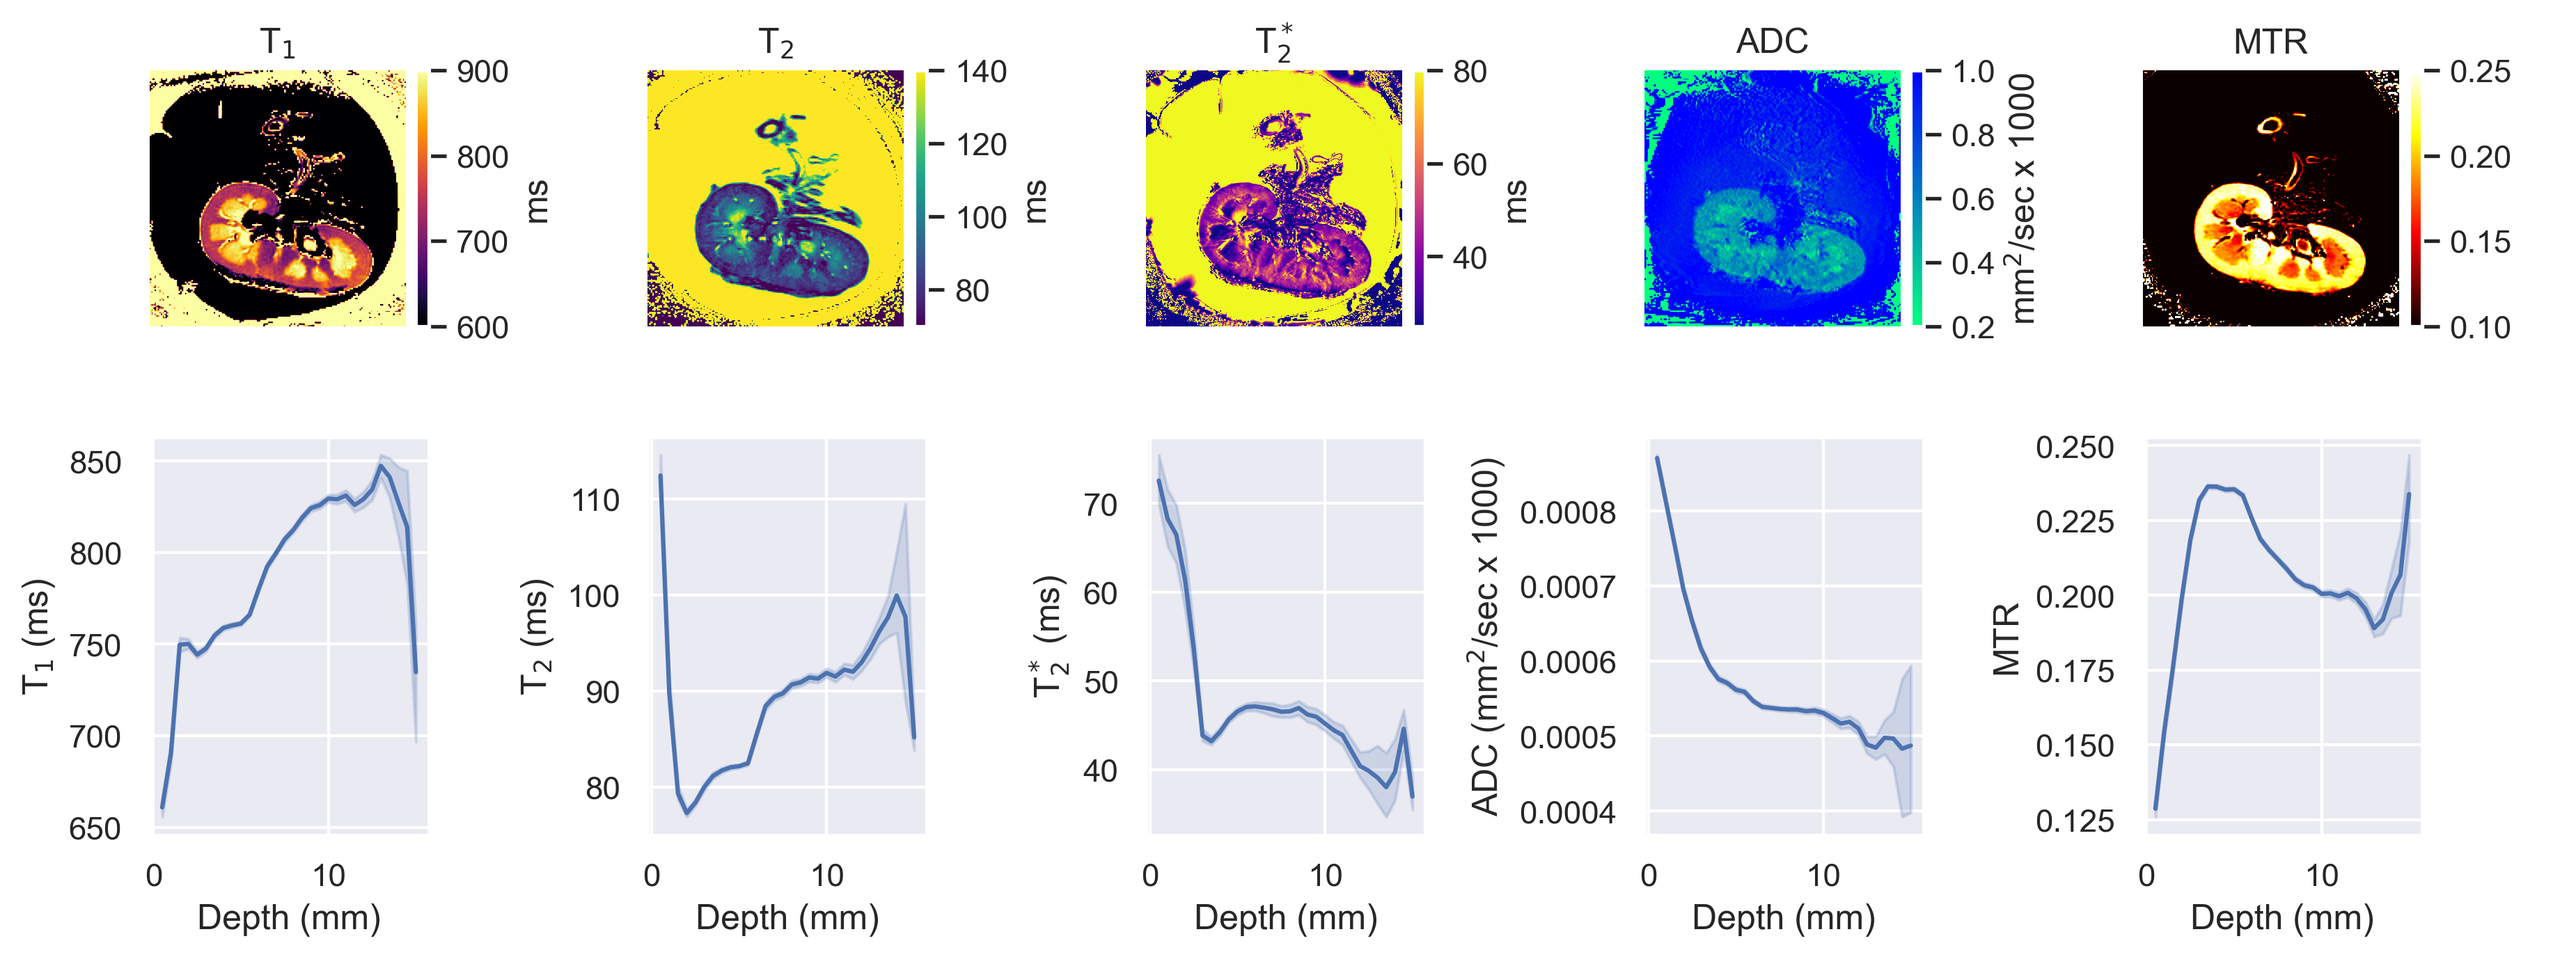
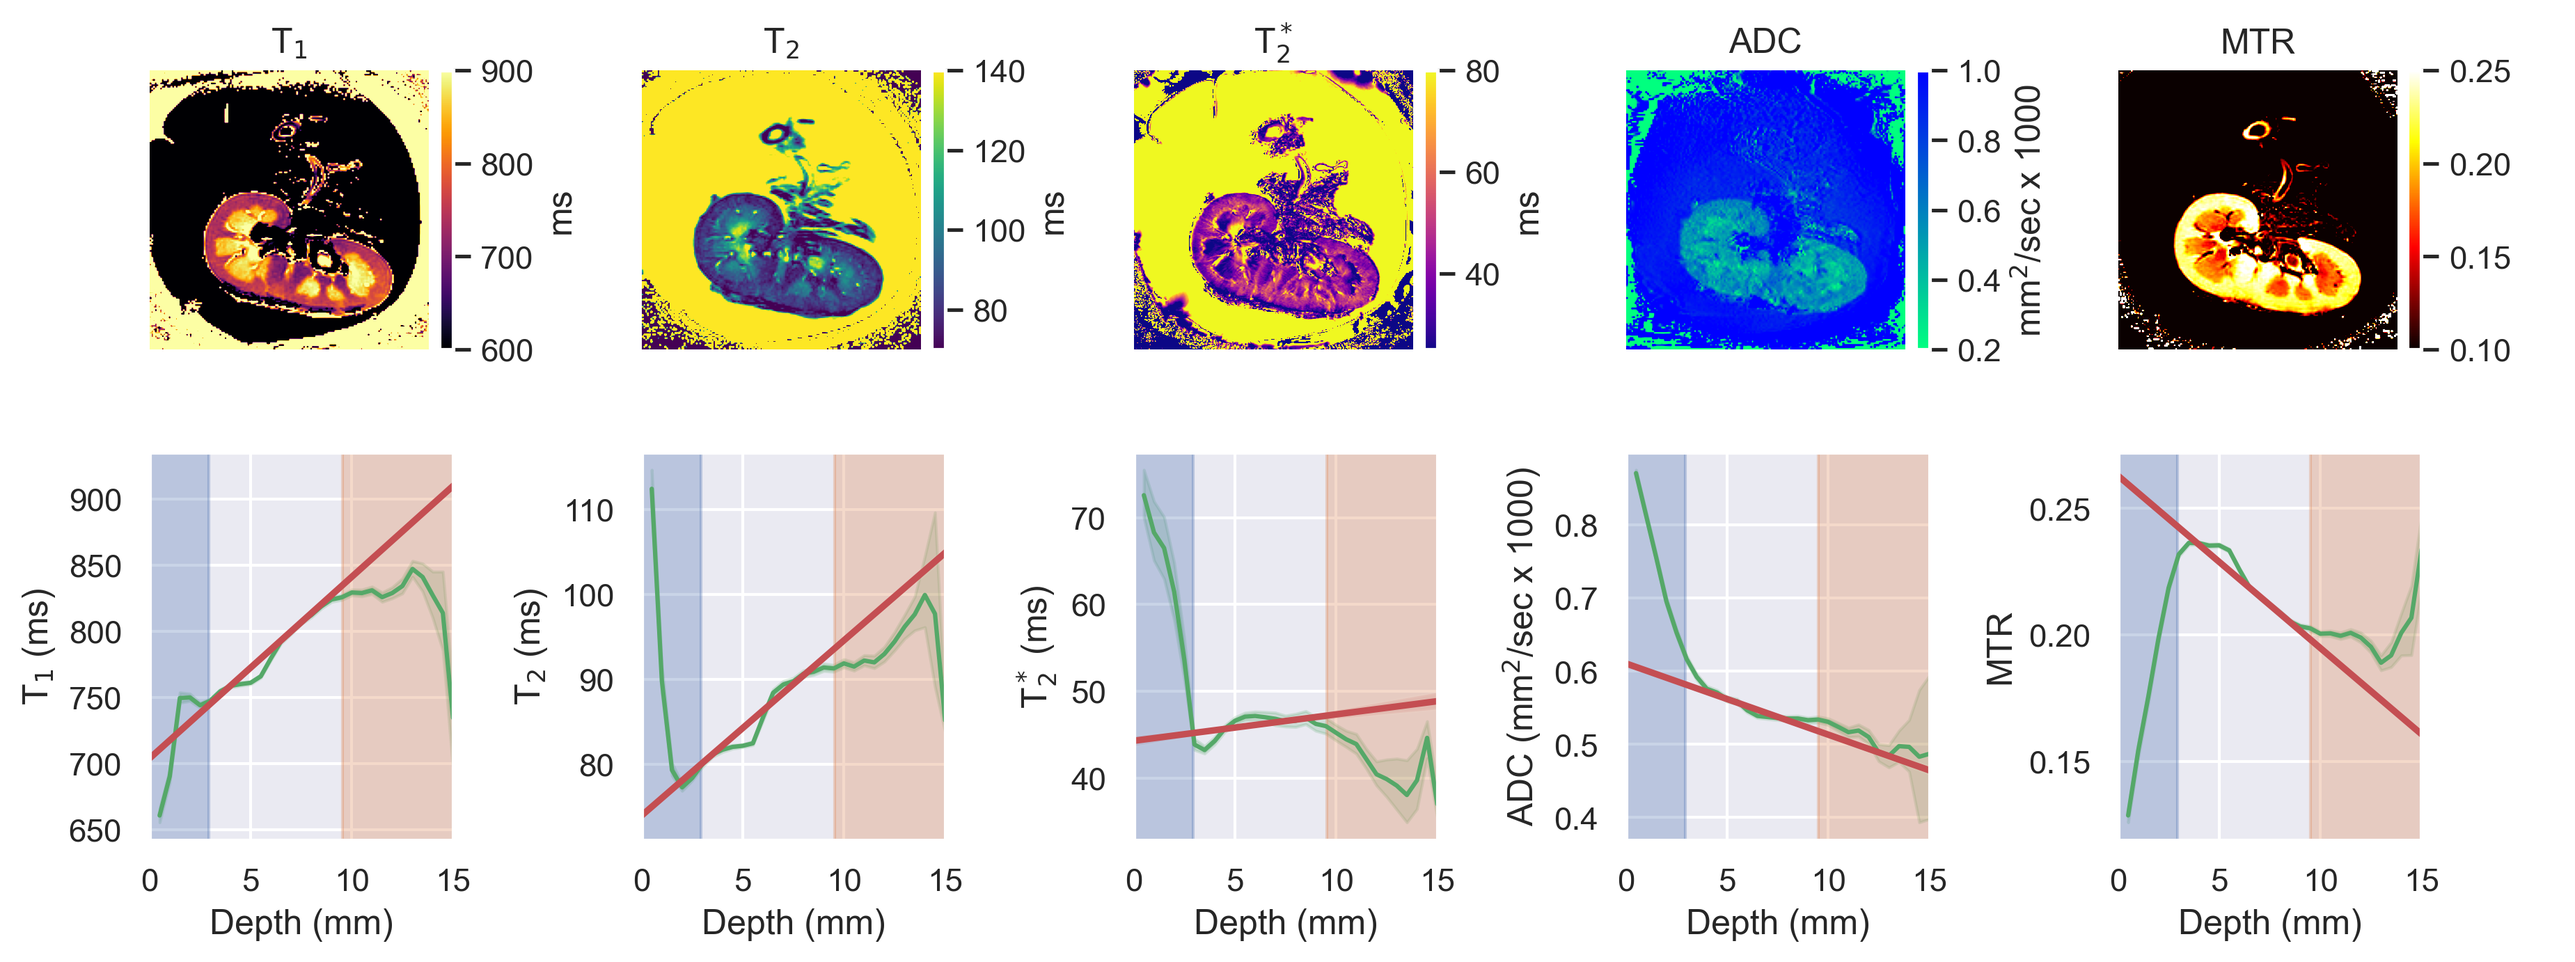
Added cortical thickness and improved ex-vivo profiles

diff --git a/paper/paper.md b/paper/paper.md
@@ -38,30 +38,33 @@ Segmenting ROI for the renal cortex and medulla manually is time consuming, diff
 TLCO requires the MR image to be a single slice cutting through the kidneys on their longest axis (coronal-oblique) however, this is not always desirable [@bane_consensus-based_2020]. Often researchers prefer to acquire multi-slice images to increase the number of voxels in the image and gain a better understanding of the heterogeneity of the kidney. Additionally flexibility in the orientation images are acquired at is highly desirable. These limitations of TLCO were the motivation for the development of `3DQLayers`, a volumetric, quantitative-depth based analysis method for renal MRI data.
 
 ## Methods
-`3DQLayers` is an open-source Python package that aims to build upon the premise of TLCO and allow layer based analysis to be fully automated for use in large studies. `3DQLayers` fundamentally differs from TLCO in that layers are defined based on each voxels distance from the surface of the kidney in millimetres rather than the proportion through the kidney. As such, the input to `3DQLayers` is a whole kidney ROI, this can be automatically generated from a structural image [@daniel_automated_2021; @daniel_renal_2024].
+`3DQLayers` is an open-source Python package that aims to build upon the premise of TLCO and allow layer based analysis to be fully automated for use in large studies. `3DQLayers` fundamentally differs from TLCO in that layers are defined based on each voxels distance from the surface of the kidney in millimetres rather than the proportion through the kidney. As such, the input to `3DQLayers` is a whole kidney ROI; this can be automatically generated from a structural image [@daniel_automated_2021; @daniel_renal_2024].
 
 The pipeline by which layers are defined is outlined in \autoref{fig:flowchart}. Pre-processing steps fill in holes in the ROI caused by cysts as the surface of a cyst is not representative of the surface of the kidney. Next the voxel-based representation of the ROI is converted to a smoothed mesh-based representation of the kidneys, the distance from the centre of each voxel to the surface of the mesh can then be calculated producing a depth map [@dawson-haggerty_trimesh_2023]. As tissue adjacent to the renal pelvis is not representative of the medulla, it is excluded from layer-based analysis. This is achieved by automatically segmenting the pelvis then calculating the distance from each voxel to the pelvis as above. Voxels closer than a specified threshold, typically 10 mm, are excluded from the depth map. Finally, a layer image is generated by quantising the depth map to a desired layer thickness, typically 1 mm.
 
-The layer image and quantitative images are resampled to the same resolution using `NiBabel` [@brett_nipy/nibabel_2019], this allows each layer to be used as an ROI with statistical measures of the quantitative image e.g. median, standard deviation and kurtosis, calculated as a function of depth through the kidney. The gradient of the central layers can be calculated, additionally, if tissue ROI are available the distribution of tissue types with depth can be explored.
+The layer image and quantitative images are resampled to the same resolution using `NiBabel` [@brett_nipy/nibabel_2019], this allows each layer to be used as an ROI with statistical measures of the quantitative image e.g. median, standard deviation and kurtosis, calculated as a function of depth through the kidney. The gradient of the central layers can be calculated, additionally, if tissue ROI are available the distribution of tissue types with depth can be explored. As the layers are generated from a structural image rather than the quantitative map, using `3DQLayers` stipulates no requirements on quantitative map acquisition, unlike TLCO.
 
 An object oriented interface makes it easy for users to generate layers and use them to analyse quantitative images. [Documentation](https://qlayers.readthedocs.io/) is provided to guide users through instillation via `PyPI`, `conda` or from [source code on GitHub](https://github.com/alexdaniel654/qlayers) and includes tutorials and an API reference. An automated test suite with high coverage gives users confidence in the stability of `3DQLayers` and that there will be no unexpected changes to results unless highlighted in the change-log.
 
 ## Usage Examples
-An estimated glomerular filtration rate (eGFR) above 90 ml/min/1.73m^2^ is considered healthy. \autoref{fig:egfr_gradients} shows `3DQLayers` being used to measure different gradients of R~2~^\*^ in volunteers with normal an impaired renal function. This replicates results shown using TLCO however `3DQLayers` controls for kidneys size and as such the gradients are measured in quantitative units of Hz/mm rather than Hz/layer as in TLCO.
+An estimated glomerular filtration rate (eGFR) above 90 ml/min/1.73m^2^ is considered healthy. \autoref{fig:egfr_gradients} shows `3DQLayers` being used to measure different gradients of R~2~^\*^ in volunteers with normal and impaired renal function. This replicates results shown using TLCO however `3DQLayers` controls for kidneys size and as such the gradients are measured in quantitative units of Hz/mm rather than Hz/layer as in TLCO.
 
 `3DQLayers` can also be used to analyse kidneys outside the body. \autoref{fig:exvivo_profiles} shows example quantitative maps acquired from a kidney removed for transplant and associated layer profiles. \autoref{fig:roi_layers_corr} compares results of ROI-based analysis and layer-based analysis in fifteen transplant kidneys. A significant correlation between outer layers and the cortex, and inner layers and the medulla was shown across all quantitative mapping techniques and a significant correlation between cortico-medullary ratio and layer gradient was shown for T~1~, T~2~, T~2~ ^\*^ and Magnetisation Transfer Ratio (MTR) mapping.
+
+\autoref{fig:cortical_thickness} shows how `3DQLayers` can be used in combination with tissue ROI to analyse the distribution of tissues within the kidney. Average cortical thickness can be defined as the depth at which most voxels are medulla rather than cortex. Cortical thickness has been hypothesised as a potential biomarker [@yamashita_value_2015].
 
 # Figures
 ![a) A schematic of the kidneys showing the renal cortex and medullary pyramids. b) An anatomical MR Image of the abdomen showing the kidneys with the renal cortex appearing as a light band towards the outside of the kidneys and medullary pyramids as darker patches towards the centre of the kidneys. \label{fig:renal_structure}](kidney_overview.png){ width=90% }
 
 ![The mask from the T2-weighted structural scan (a i) has any cysts filled (a ii) and is converted into a smooth mesh representing the renal surface (b i and ii). The distance (in mm) from each voxel to the surface of the mesh is calculated (b iii). The renal pelvis is segmented (c i) and any tissue within 10 mm (c ii) of the pelvis is excluded from the depth map (c iii). The tissue is then grouped into layers of a desired thickness, here shown as 5 mm layers for illustrative purposes (d). \label{fig:flowchart}](flowchart.png)
 
-![Layers, R~2~ ^\*^ maps and layer profiles measured using `3DQLayers` for a subject with healthy renal function and a subject with impaired renal function. Shading around lines shows the 95% confidence interval. \label{fig:egfr_gradients}](gradients.png){ width=100% }
+![Layers, R~2~ ^\*^ maps and layer profiles measured using `3DQLayers` for a subject with healthy renal function and a subject with impaired renal function. Shading around lines shows the 95% confidence interval. \label{fig:egfr_gradients}](gradients.png)
 
 ![Example quantitative maps and associated depth profiles when `3DQLayers` is applied to transplant kidneys. Uncertainty shading shows the 95% confidence interval of each layer. \label{fig:exvivo_profiles}](example_profiles.png)
 
-![Agreement between tissue label-based analysis methods and layer-based analysis methods and the Pearsons correlation coefficient. p-value of * < 0.05, ** < 0.01 and *** < 0.001. \label{fig:roi_layers_corr}](roi_layers_corr.png)
+![Agreement between tissue label-based analysis methods and layer-based analysis methods and the Pearsons correlation coefficient ($ \rho $). * represents a _p_-value between 0.05 and 0.1, ** between 0.01 and  0.001, and *** < 0.001. \label{fig:roi_layers_corr}](roi_layers_corr.png)
 
+![Exploring the distribution of tissue types through the kidney to measure cortical thickness. \label{fig:cortical_thickness}](cortical_thickness.png){ width=50% }
 # Acknowledgements
 
 # References
